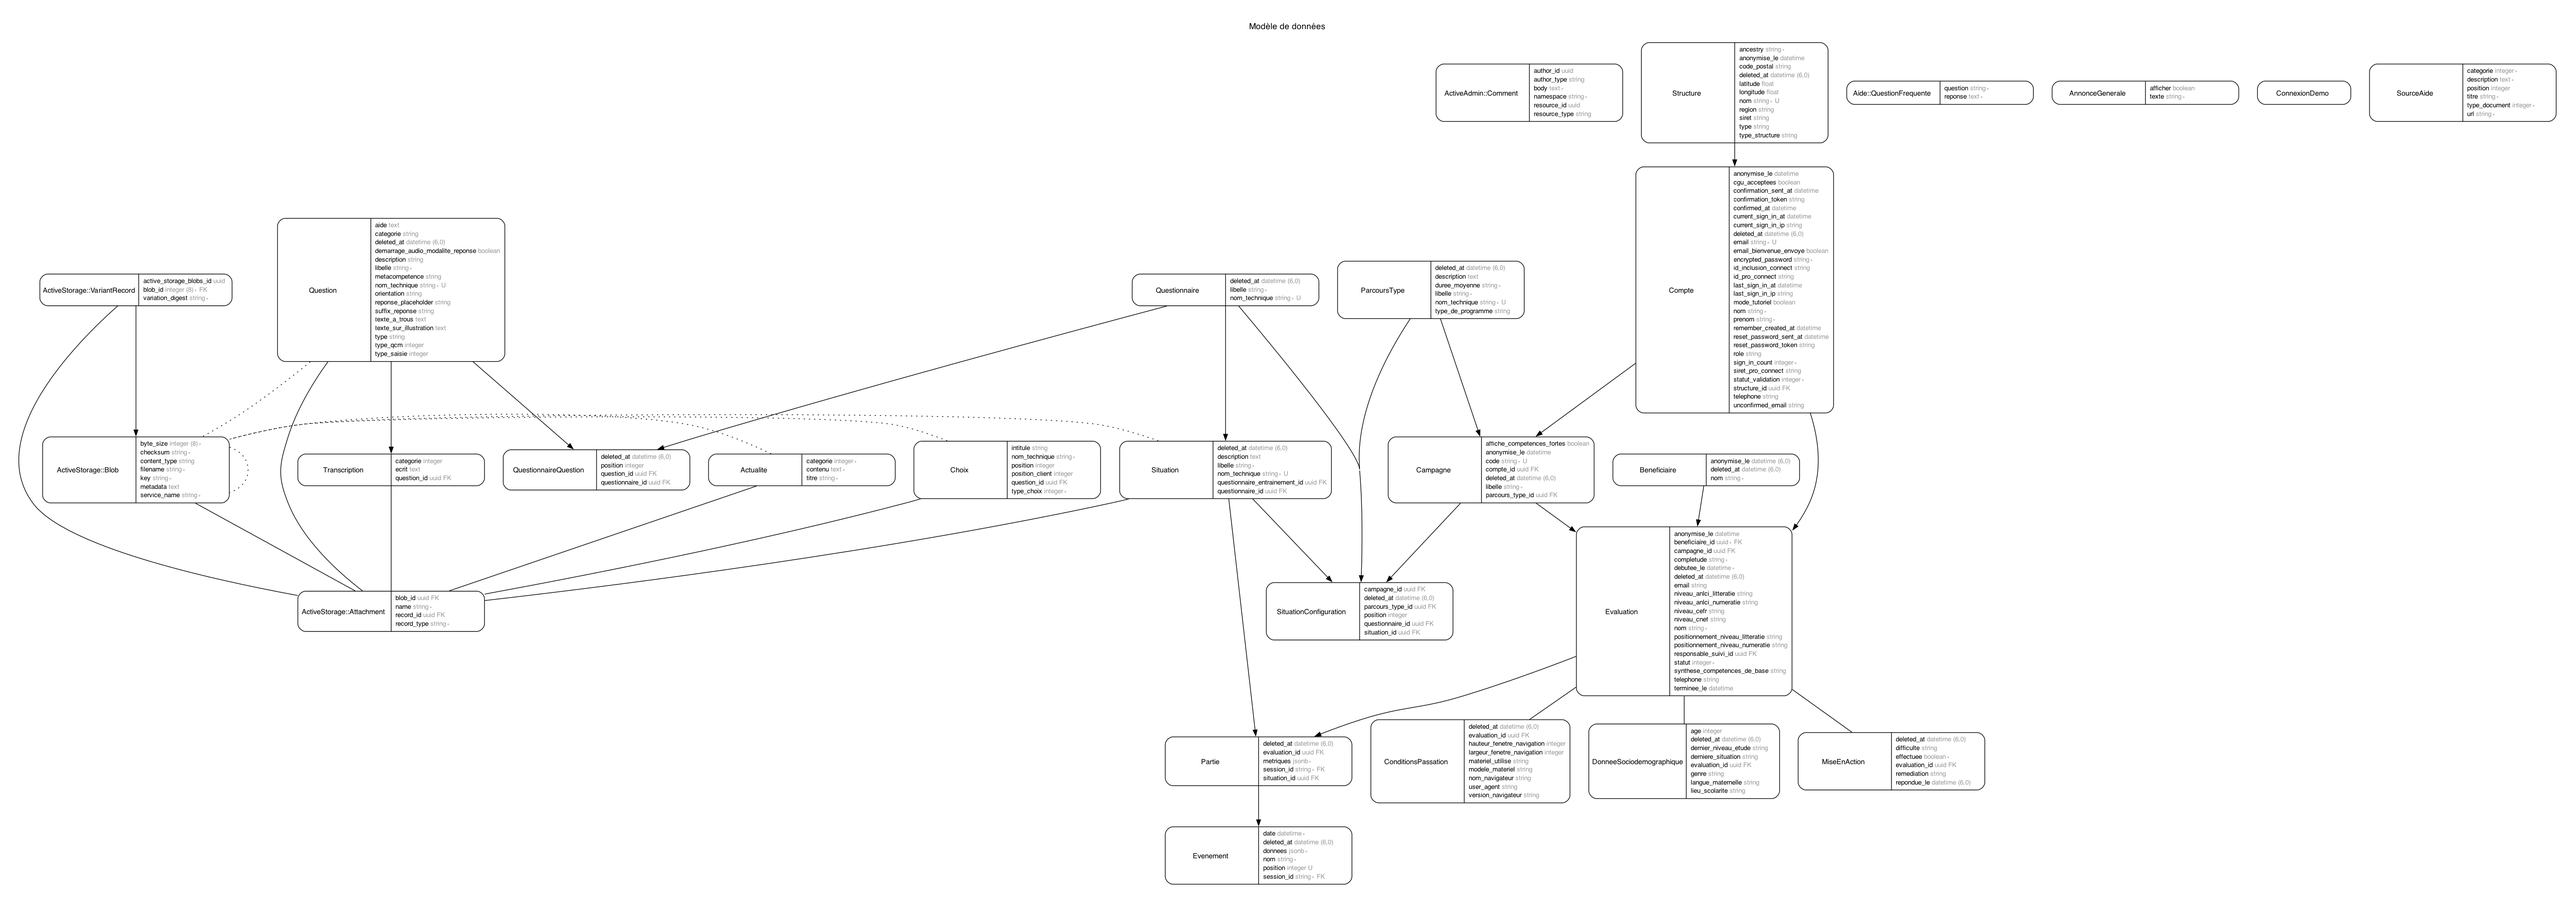
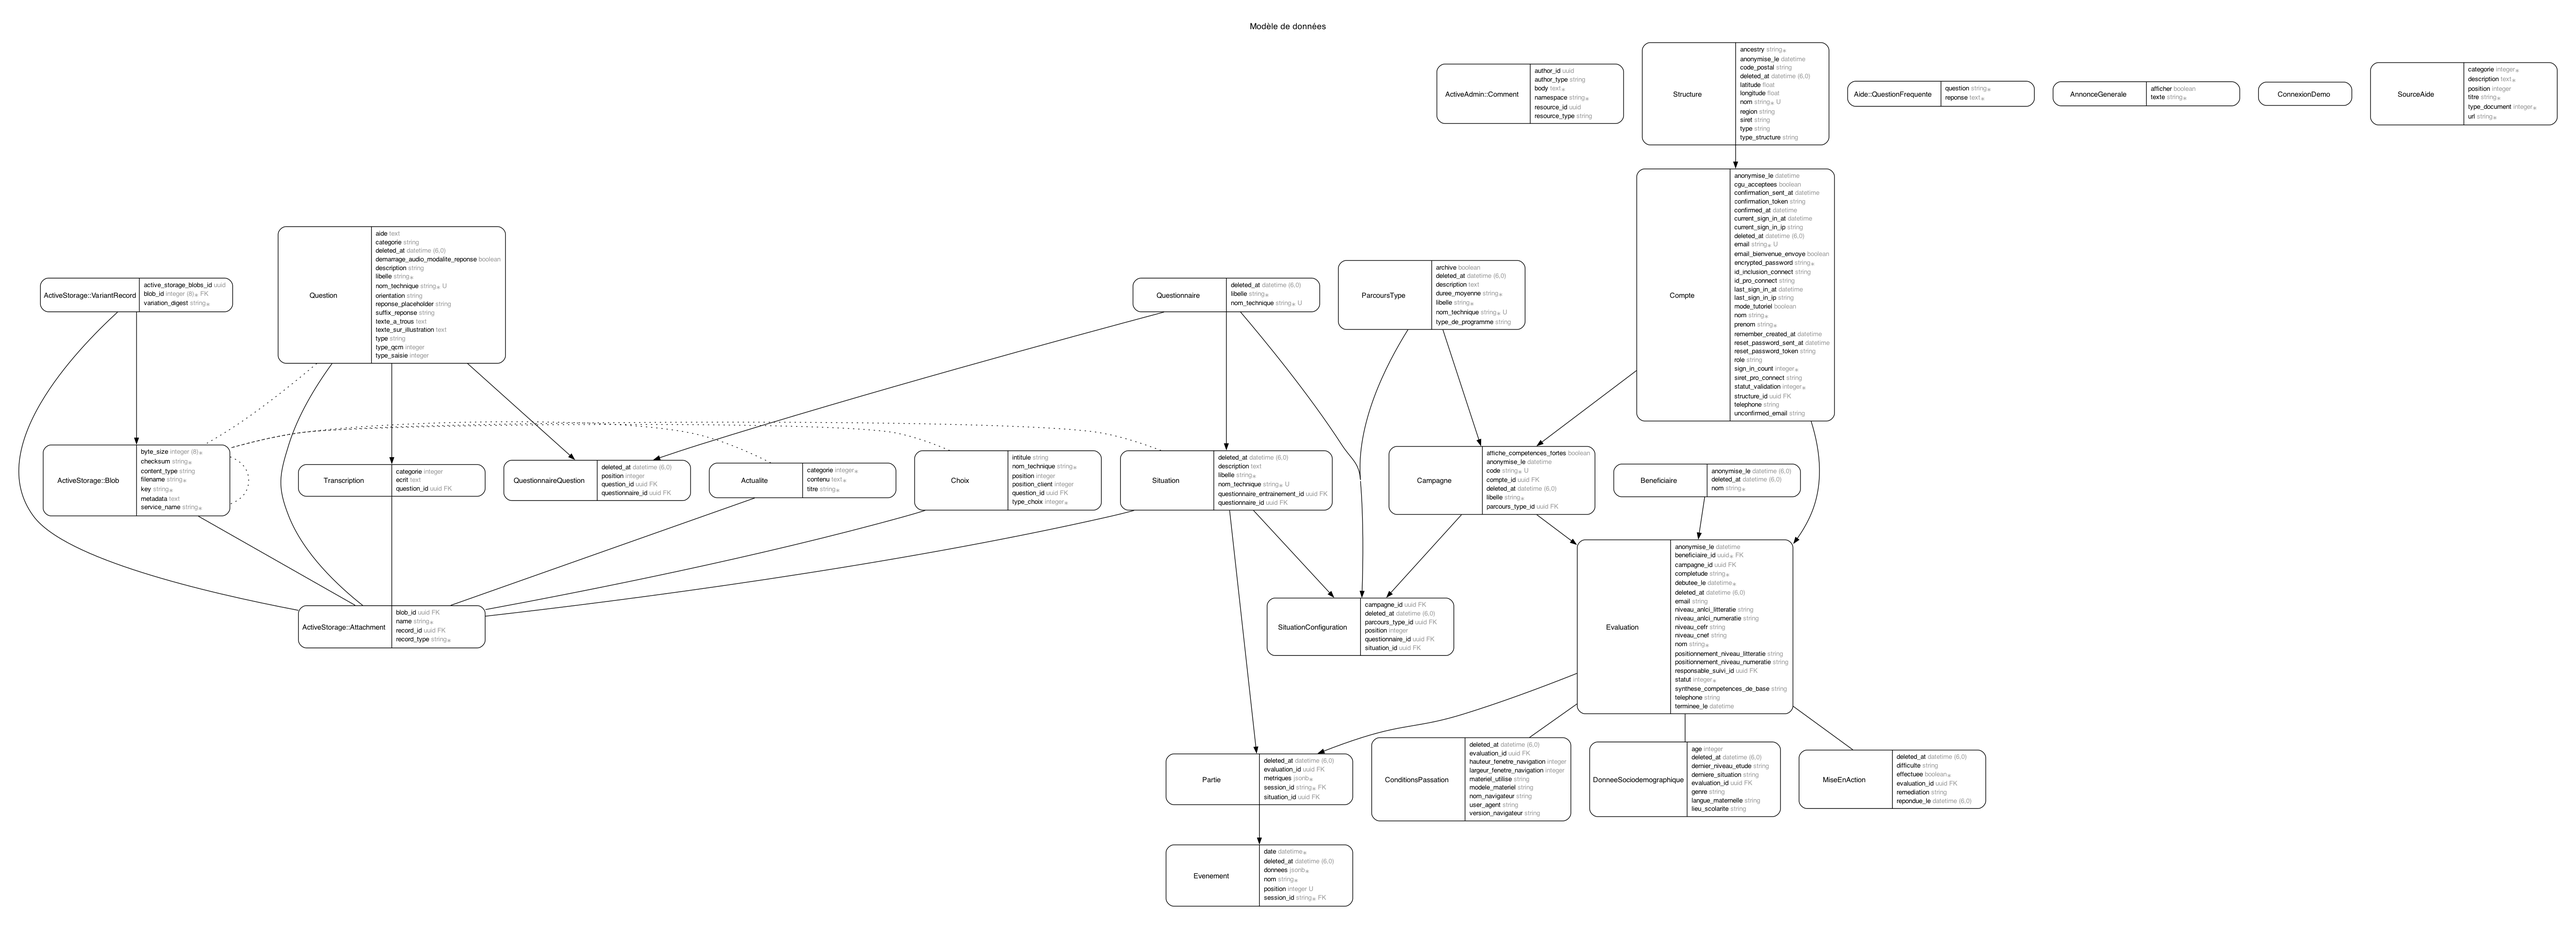
Permet de désactiver un parcours type pour qu'il ne soit plus proposé à la création de campagne

diff --git a/app/admin/parcours_type.rb b/app/admin/parcours_type.rb
@@ -3,7 +3,7 @@
 ActiveAdmin.register ParcoursType do
   menu parent: 'Parcours', if: proc { can? :manage, Compte }
 
-  permit_params :libelle, :nom_technique, :duree_moyenne, :description, :type_de_programme,
+  permit_params :libelle, :actif, :nom_technique, :duree_moyenne, :description, :type_de_programme,
                 situations_configurations_attributes: %i[id situation_id questionnaire_id _destroy]
 
   filter :libelle
@@ -17,6 +17,7 @@ ActiveAdmin.register ParcoursType do
     column :libelle do |pt|
       link_to pt.libelle, admin_parcours_type_path(pt)
     end
+    column :actif
     column :nom_technique
     column :duree_moyenne
     column :created_at

diff --git a/db/schema.rb b/db/schema.rb
@@ -10,7 +10,7 @@
 #
 # It's strongly recommended that you check this file into your version control system.
 
-ActiveRecord::Schema[7.2].define(version: 2025_04_01_100516) do
+ActiveRecord::Schema[7.2].define(version: 2025_04_09_091700) do
   # These are extensions that must be enabled in order to support this database
   enable_extension "pgcrypto"
   enable_extension "plpgsql"
@@ -255,6 +255,7 @@ ActiveRecord::Schema[7.2].define(version: 2025_04_01_100516) do
     t.text "description"
     t.string "type_de_programme"
     t.datetime "deleted_at"
+    t.boolean "actif", default: true
     t.index ["deleted_at"], name: "index_parcours_type_on_deleted_at"
   end
 

diff --git a/app/admin/campagnes.rb b/app/admin/campagnes.rb
@@ -84,7 +84,7 @@ ActiveAdmin.register Campagne do
     end
 
     def parcours_type
-      @parcours_type = ParcoursType.order(:created_at)
+      @parcours_type ||= ParcoursType.where(actif: true).order(:created_at)
     end
 
     def situations_configurations

diff --git a/db/migrate/20250409091700_ajoute_archive_a_parcours_types.rb b/db/migrate/20250409091700_ajoute_archive_a_parcours_types.rb
@@ -1,0 +1,5 @@
+class AjouteArchiveAParcoursTypes < ActiveRecord::Migration[7.2]
+  def change
+    add_column :parcours_type, :actif, :boolean, default: true
+  end
+end
